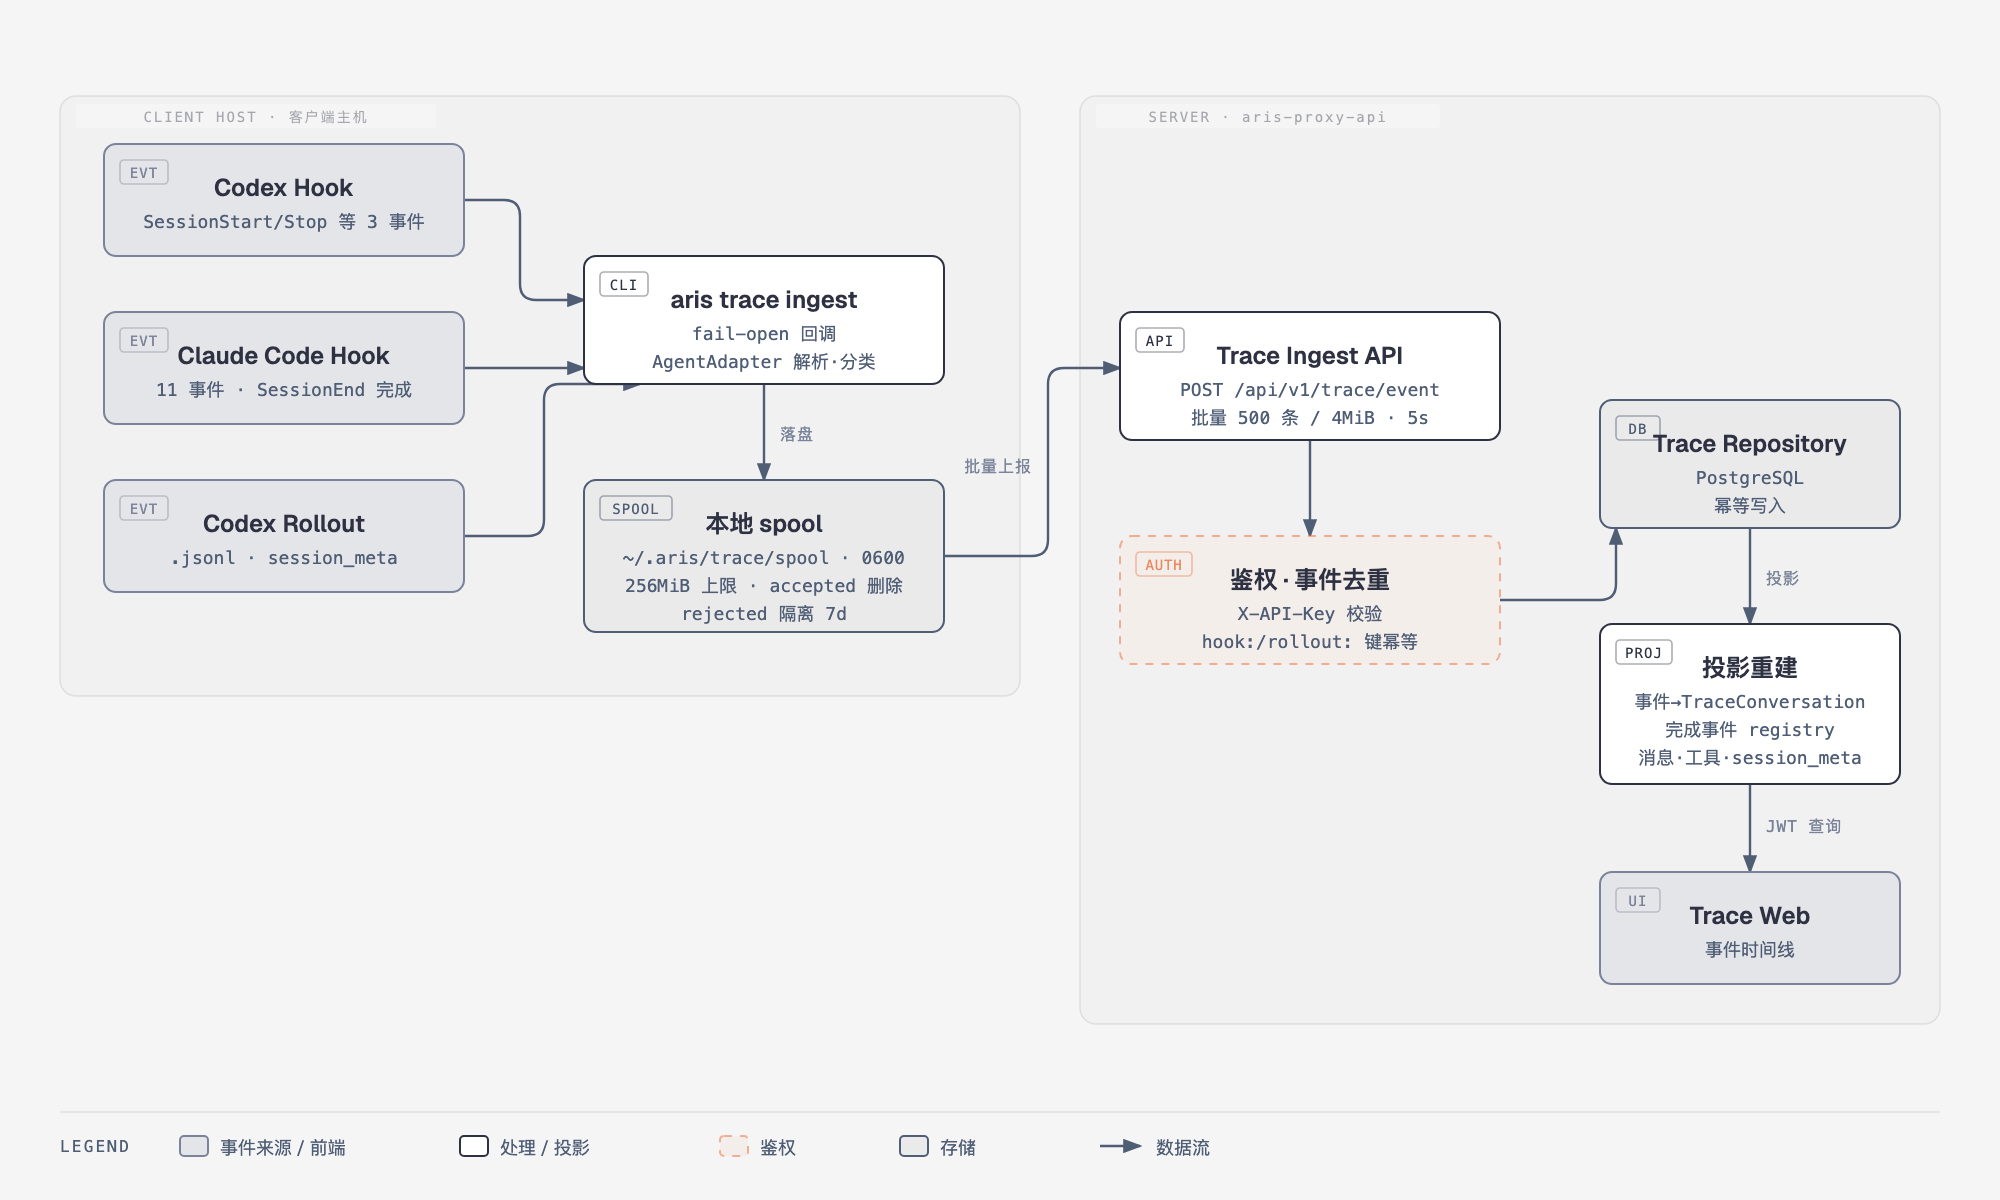
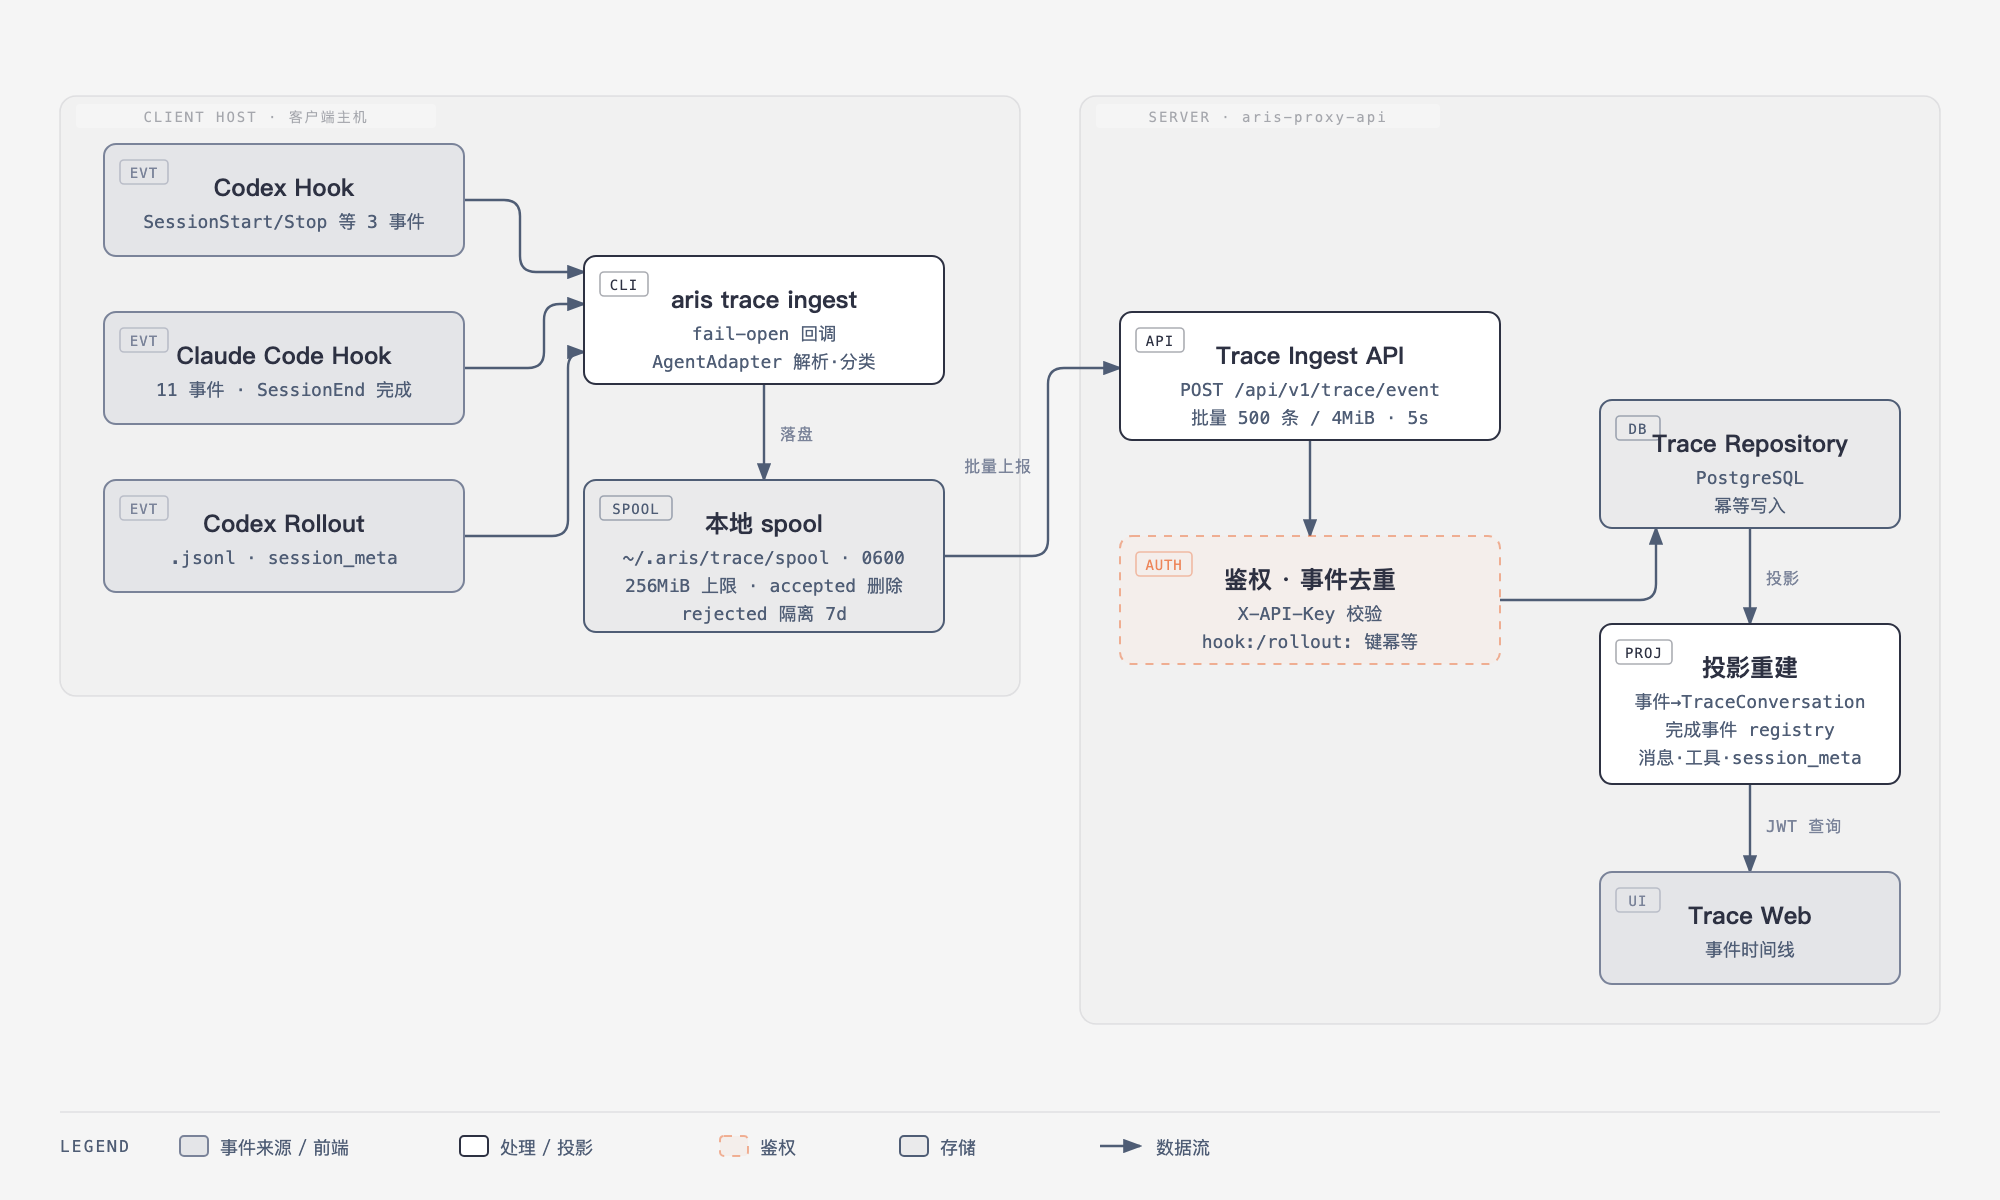
docs(diagram): Update ARIS proxy API architecture diagram with adjusted arrow paths for improved clarity and accuracy. Also, replace the trace ingest image with a new version.

diff --git a/docs/diagrams/aris-proxy-api-architecture.html b/docs/diagrams/aris-proxy-api-architecture.html
@@ -637,9 +637,9 @@
           <text x="634" y="61" fill="rgba(45,49,66,0.40)" font-size="7" font-family="'Geist Mono', monospace" text-anchor="middle" letter-spacing="0.14em">SERVER · aris-proxy-api</text>
 
           <!-- ARROWS -->
-          <path d="M 232,100 H 252 Q 260,100 260,108 V 142 Q 260,150 268,150 H 292" fill="none" stroke="#4f5d75" stroke-width="1.2" marker-end="url(#arrow)"/>
-          <path d="M 232,184 H 292" fill="none" stroke="#4f5d75" stroke-width="1.2" marker-end="url(#arrow)"/>
-          <path d="M 232,268 H 264 Q 272,268 272,260 V 200 Q 272,192 280,192 H 320" fill="none" stroke="#4f5d75" stroke-width="1.2" marker-end="url(#arrow)"/>
+          <path d="M 232,100 H 252 Q 260,100 260,108 V 128 Q 260,136 268,136 H 292" fill="none" stroke="#4f5d75" stroke-width="1.2" marker-end="url(#arrow)"/>
+          <path d="M 232,184 H 264 Q 272,184 272,176 V 160 Q 272,152 280,152 H 292" fill="none" stroke="#4f5d75" stroke-width="1.2" marker-end="url(#arrow)"/>
+          <path d="M 232,268 H 276 Q 284,268 284,260 V 184 Q 284,176 292,176" fill="none" stroke="#4f5d75" stroke-width="1.2" marker-end="url(#arrow)"/>
 
           <path d="M 382,192 V 240" fill="none" stroke="#4f5d75" stroke-width="1.2" marker-end="url(#arrow)"/>
           <text x="390" y="220" fill="#7a8399" font-size="8" font-family="'Geist Mono', monospace" letter-spacing="0.06em">落盘</text>
@@ -648,7 +648,7 @@
           <text x="516" y="236" fill="#7a8399" font-size="8" font-family="'Geist Mono', monospace" text-anchor="end" letter-spacing="0.06em">批量上报</text>
 
           <path d="M 655,220 V 268" fill="none" stroke="#4f5d75" stroke-width="1.2" marker-end="url(#arrow)"/>
-          <path d="M 750,300 H 800 Q 808,300 808,292 V 264" fill="none" stroke="#4f5d75" stroke-width="1.2" marker-end="url(#arrow)"/>
+          <path d="M 750,300 H 820 Q 828,300 828,292 V 264" fill="none" stroke="#4f5d75" stroke-width="1.2" marker-end="url(#arrow)"/>
           <path d="M 875,264 V 312" fill="none" stroke="#4f5d75" stroke-width="1.2" marker-end="url(#arrow)"/>
           <text x="883" y="292" fill="#7a8399" font-size="8" font-family="'Geist Mono', monospace" letter-spacing="0.06em">投影</text>
           <path d="M 875,392 V 436" fill="none" stroke="#4f5d75" stroke-width="1.2" marker-end="url(#arrow)"/>
